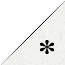
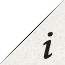
changed info tab image and added keys.png for instructions

Changed region(s): [[0.0, 0.0, 1.0, 1.0], [0.6154, 0.6154, 0.8308, 0.9231], [0.7077, 0.4923, 0.8308, 0.5846]]

diff --git a/css/layout.css b/css/layout.css
@@ -33,4 +33,7 @@ nav ul li ul li a:visited { font-size: 1.3em; color: #666; } */
 #label { height:2em; width:inherit; padding-top:2em; }
 #progress { width: inherit; height:18px; background-image:url("../images/Style/bar.png"); background-repeat:repeat-x; margin-top:18px; }
 #longbar { width:7px; height:18px; z-index:10; margin-top:-4px; position:relative; }
+
+
 /*footer { position: absolute; bottom: 0; margin-left: 20.83333%; width: 100%; padding: 1em; background-color: #fff; font-size: 1.5em; }*/ footer { display: none; }
+

diff --git a/css/portfolio.css b/css/portfolio.css
@@ -3,7 +3,7 @@ body.js { overflow: hidden; }
 
 body.js #navWrapper nav > ul { display: block; opacity: 0; }
 body.js #navWrapper nav > ul ul { display: block; }
-
+body.js #instructions { height: 100px; width: 160px; background-image: url("../images/Style/keys.png"); background-repeat:repeat-x; }
 body.js #main { margin-left: 2000px; margin-top: 2000px; position: absolute; }
 
 body.js #main h1,

diff --git a/index.html b/index.html
@@ -39,7 +39,7 @@
 				<nav>
 					<h1><a href="#" id="logo"><img src="images/logo_white.png"/></a></h1>
 					<div id="statusinfo"></div>
-					
+
 					<ul>
 						<li>
 							<a href="#Design">Design</a>
